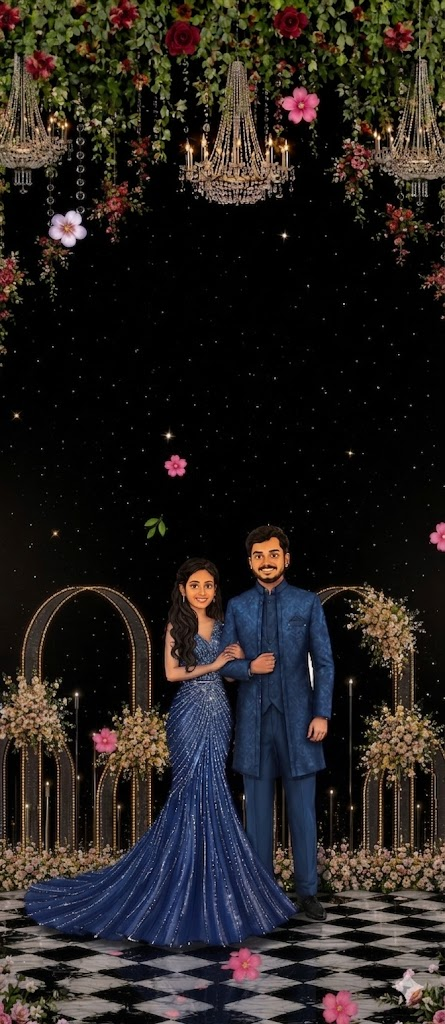
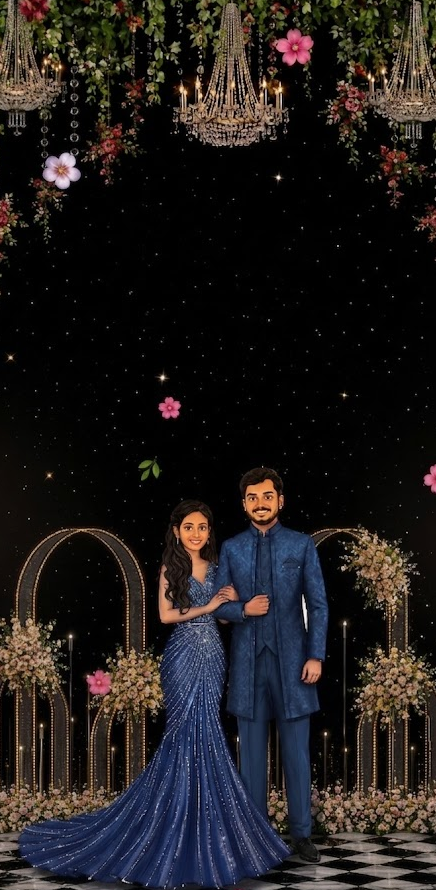
Add reception and sangeet images to assets

diff --git a/src/components/Sections.tsx b/src/components/Sections.tsx
@@ -12,15 +12,22 @@ export function Hero() {
         className="absolute inset-0 h-full w-full object-cover"
       />
       <div className="absolute inset-0 bg-[#FAF0E6]/10" />
-      <div className="relative z-10">
-        <p className="font-serif tracking-[0.3em] text-maroon/70">WE ARE GETTING MARRIED</p>
-        <h1 className="my-4 font-script text-4xl text-maroon sm:text-5xl sm:text-7xl md:text-8xl">
-          {wedding.groom}
-          <span className="mx-2 text-rose">&amp;</span>
-          {wedding.bride}
-        </h1>
-        <p className="font-serif text-2xl text-maroon/80">{wedding.dateLabel}</p>
-        <p className="mt-1 font-sans text-sm tracking-wide text-rose">{wedding.city}</p>
+      <div className="relative z-10 mx-auto max-w-md py-12">
+        <p className="font-serif text-lg italic tracking-wide text-rose">
+          ॥ {wedding.invocation} ॥
+        </p>
+
+        <p className="mx-auto mt-8 max-w-sm font-serif text-base leading-relaxed text-maroon/80">
+          {wedding.introLine}
+        </p>
+
+        <h1 className="mt-6 font-script text-6xl text-maroon sm:text-7xl">{wedding.groom}</h1>
+        <p className="mt-2 font-serif text-sm text-maroon/70">{wedding.groomParents}</p>
+
+        <p className="my-4 font-script text-3xl text-maroon/80">with</p>
+
+        <h1 className="font-script text-6xl text-maroon sm:text-7xl">{wedding.bride}</h1>
+        <p className="mt-2 font-serif text-sm text-maroon/70">{wedding.brideParents}</p>
       </div>
     </section>
   );
@@ -63,27 +70,104 @@ export function Events() {
 
       <div className="mx-auto flex max-w-[1230px] flex-wrap justify-center gap-6">
         {wedding.events
-          .filter((e) => "image" in e && e.image)
-          .map((e, i) => (
-            <Reveal key={e.name} delay={i * 0.08} className="w-full md:w-[calc(50%-0.75rem)]">
-              <div className="flex h-full items-center justify-center rounded-2xl bg-white/70 p-0 shadow-sm">
-                <picture className="w-full">
-                  {/* Desktop / tablet (≥480px) gets the main image. */}
-                  <source
-                    media="(min-width: 480px)"
-                    srcSet={(e as { image: string }).image}
-                  />
-                  {/* Phones (<480px) get imageMobile if provided, else the main image. */}
-                  <img
-                    src={(e as { imageMobile?: string; image: string }).imageMobile ?? (e as { image: string }).image}
-                    alt={e.name}
-                    loading="lazy"
-                    className="h-auto w-full rounded-2xl object-contain"
-                  />
-                </picture>
-              </div>
-            </Reveal>
-          ))}
+          .filter((e) => ("image" in e && e.image) || ("imageMobile" in e && e.imageMobile))
+          .map((e, i) => {
+            const ev = e as {
+              image?: string;
+              imageMobile?: string;
+              name: string;
+              tag?: string;
+              date?: string;
+              time?: string;
+              venue?: string;
+              overlayPos?: string;
+            };
+            // Events with only a mobile image are hidden on screens ≥480px.
+            const mobileOnly = !ev.image && !!ev.imageMobile;
+            // Shift the overlay toward the upper-right empty space when requested.
+            const overlayAlign =
+              ev.overlayPos === "top-right"
+                ? "items-end justify-start pt-[12%] text-right"
+                : "items-center justify-center text-center";
+            // Reception gets its own overlay positioning, tweak independently here.
+            const isReception = ev.name === "Reception";
+            const overlayClass = isReception
+              ? "items-center justify-center px-8 py-8 text-center"
+              : `px-8 py-8 pl-36 ${overlayAlign}`;
+            return (
+              <Reveal
+                key={e.name}
+                delay={i * 0.08}
+                className={`w-full md:w-[calc(50%-0.75rem)]${mobileOnly ? " min-[480px]:hidden" : ""}`}
+              >
+                <div className="relative flex h-full items-center justify-center overflow-hidden rounded-2xl bg-white/70 p-0 shadow-sm">
+                  <picture className="w-full">
+                    {/* Desktop / tablet (≥480px) gets the main image (if any). */}
+                    {ev.image && (
+                      <source media="(min-width: 480px)" srcSet={ev.image} />
+                    )}
+                    {/* Phones (<480px) get imageMobile if provided, else the main image. */}
+                    <img
+                      src={ev.imageMobile ?? ev.image}
+                      alt={e.name}
+                      loading="lazy"
+                      className="h-auto w-full rounded-2xl object-contain"
+                    />
+                  </picture>
+
+                  {/* Mobile text overlay — anchored to the top of the portrait image. */}
+                  <div className="absolute inset-x-0 top-0 flex flex-col items-center px-6 pt-8 text-center text-white min-[480px]:hidden">
+                    <h3 className="font-script text-4xl drop-shadow">{ev.name}</h3>
+                    {ev.tag && (
+                      <p className="mt-2 max-w-xs font-serif text-sm italic text-white/90 drop-shadow">
+                        {ev.tag}
+                      </p>
+                    )}
+                    <div className="mt-3 flex flex-wrap items-center justify-center gap-x-3 gap-y-1 font-serif text-sm drop-shadow">
+                      {ev.date && <span>{ev.date}</span>}
+                      {ev.time && <span>· {ev.time}</span>}
+                    </div>
+                    {ev.venue && (
+                      <p className="mt-1 font-serif text-sm text-white/90 drop-shadow">{ev.venue}</p>
+                    )}
+                  </div>
+
+                  {/* Web-only text overlay (mobile images already have text baked in). */}
+                  {ev.image && (
+                    <div className={`absolute inset-0 hidden flex-col bg-black/30 text-white min-[480px]:flex ${overlayClass}`}>
+                      <h3 className="font-script text-4xl drop-shadow sm:text-5xl">{ev.name}</h3>
+                      {ev.tag && (
+                        <p className="mt-3 max-w-xs font-serif text-base italic text-white/90 drop-shadow sm:text-lg">
+                          {ev.tag}
+                        </p>  
+                      )}
+                      <div className="my-5 text-xl text-gold drop-shadow">❀</div>
+                      <div className="space-y-4 font-serif">
+                        {ev.date && (
+                          <div>
+                            <p className="text-xs tracking-[0.3em] text-white/80">DATE</p>
+                            <p className="mt-1 text-xl drop-shadow sm:text-2xl">{ev.date}</p>
+                          </div>
+                        )}
+                        {ev.time && (
+                          <div>
+                            <p className="text-xs tracking-[0.3em] text-white/80">TIME</p>
+                            <p className="mt-1 text-xl drop-shadow sm:text-2xl">{ev.time}</p>
+                          </div>
+                        )}
+                        {ev.venue && (
+                          <div>
+                            <p className="text-xs tracking-[0.3em] text-white/80">VENUE</p>
+                            <p className="mt-1 text-lg drop-shadow sm:text-xl">{ev.venue}</p>
+                          </div>
+                        )}
+                      </div>
+                    </div>
+                  )}
+                </div>
+              </Reveal>
+            );
+          })}
       </div>
     </section>
   );
@@ -113,13 +197,13 @@ export function Families() {
       </Reveal>
 
       <Reveal className="mx-auto mt-5 max-w-xl rounded-2xl border border-gold/40 px-5 py-10">
-        <p className="font-serif text-xs tracking-[0.25em] text-sagedeep/70">
+        <p className="font-serif text-sm tracking-[0.25em] text-[#7E4343]/80 sm:text-base">
           {wedding.hosts.label.toUpperCase()}
         </p>
         <div className="my-3 text-gold">❀</div>
-        <div className="space-y-1.5">
+        <div className="space-y-2">
           {wedding.hosts.names.map((name) => (
-            <p key={name} className="font-serif text-lg text-maroon/90">
+            <p key={name} className="font-serif text-2xl text-[#5e2f2f] sm:text-3xl">
               {name}
             </p>
           ))}
@@ -138,7 +222,7 @@ export function Rsvp() {
       <Reveal>
         <h2 className="font-script text-4xl text-maroon sm:text-5xl">Will You Join Us?</h2>
         <Divider />
-        <p className="mx-auto mb-8 max-w-md font-serif text-lg text-maroon/80">
+        <p className="mx-auto mb-8 max-w-md font-serif text-2xl text-maroon/80">
           Your presence is the greatest gift. Kindly let us know if you can make it.
         </p>
         <a
@@ -160,9 +244,8 @@ export function Footer() {
       <div className="font-script text-4xl text-white sm:text-5xl">
         {wedding.monogram.left} &amp; {wedding.monogram.right}
       </div>
-      <p className="mt-4 font-serif text-lg text-white/70">{wedding.families}</p>
-      <p className="mt-2 font-sans text-xs tracking-wide text-white/70">
-        {wedding.dateLabel} · {wedding.city}
+      <p className="mt-4 font-sans text-sm tracking-wide text-white/70">
+        {wedding.dateLabel}
       </p>
     </footer>
   );

diff --git a/src/data/wedding.ts b/src/data/wedding.ts
@@ -5,21 +5,30 @@
 // ============================================================
 
 import haldiImg from "../assets/image copy.png";
-import mehendiImg from "../assets/event1.png";
-import sangeetImg from "../assets/image.png";
+import sangeetImg from "../assets/sangeet.png";
+import ReceptionImg from "../assets/reception.png";
 
 // Optional mobile-specific variants. Drop the files in /src/assets and import
 // them here, then reference via `imageMobile` on the matching event below.
 // If an event has no `imageMobile`, its desktop `image` is used everywhere.
-// import haldiImgMobile from "../assets/haldi-mobile.png";
-// import mehendiImgMobile from "../assets/mehendi-mobile.png";
+import haldiImgMobile from "../assets/haldi-mobile.jpg";
+import receptionImgMobile from "../assets/reception-mobile.jpeg";
 import sangeetImgMobile from "../assets/sangeet-mobile.png";
+import bhaatImgMobile from "../assets/bhaat-mobile.jpeg";
+import baratImgMobile from "../assets/Barat-mobile.jpeg";
 
 export const wedding = {
   // --- Couple ---
   groom: "Gaurav",
   bride: "Simran",
   monogram: { left: "G", right: "S" }, // shown in the envelope + footer
+
+  // --- Invitation intro (first page) ---
+  invocation: "Shree Ganeshaya Namah",
+  introLine:
+    "We cordially invite you to witness the beginning of our forever and celebrate the wedding ceremony of",
+  groomParents: "S/o Mr. Sanjay Deshmukh & Mrs. Seema Deshmukh",
+  brideParents: "D/o Mr. Dasharath Yadav & Mrs. Ujjwala Yadav",
 
   // --- Headline date ---
   date: "2026-07-09T19:00:00", // ISO — used for countdown
@@ -36,7 +45,8 @@ export const wedding = {
     {
       name: "Haldi",
       image: haldiImg,
-      // imageMobile: haldiImgMobile,
+      tag: "A joyful morning of haldi, blessings and laughter",
+      imageMobile: haldiImgMobile,
       date: "7 July 2026",
       time: "10:00 AM",
       venue: "Family Residence",
@@ -46,7 +56,7 @@ export const wedding = {
     },
     {
       name: "Mehendi",
-      image: mehendiImg,
+      tag: "An evening of intricate henna, music and mischief",
       date: "7 July 2026",
       time: "4:00 PM",
       venue: "The Garden Lawn",
@@ -57,6 +67,7 @@ export const wedding = {
     {
       name: "Sangeet",
       image: sangeetImg,
+      tag: "A night of song, dance and celebration",
       imageMobile: sangeetImgMobile,
       date: "8 July 2026",
       time: "7:00 PM",
@@ -66,16 +77,32 @@ export const wedding = {
       icon: "🎶",
     },
     {
-      name: "Wedding",
+      name: "Bhaat",
+      tag: "A heartfelt ceremony of family blessings and gifts",
+      imageMobile: bhaatImgMobile,
+      date: "8 July 2026",
+      time: "12:00 PM",
+      venue: "Family Residence",
+      address: "123 Sample Street, Jaipur",
+      mapUrl: "https://maps.google.com/?q=Jaipur",
+      icon: "🎁",
+    },
+    {
+      name: "Baraat",
+      tag: "A grand procession of dhol, dance and joy",
+      imageMobile: baratImgMobile,
       date: "9 July 2026",
-      time: "7:00 PM",
+      time: "6:00 PM",
       venue: "Royal Heritage Palace",
       address: "1 Heritage Marg, Jaipur",
       mapUrl: "https://maps.google.com/?q=Jaipur",
-      icon: "💍",
+      icon: "🐎",
     },
     {
       name: "Reception",
+      image: ReceptionImg,
+      tag: "An elegant evening of dinner, toasts and togetherness",
+      imageMobile: receptionImgMobile,
       date: "10 July 2026",
       time: "8:00 PM",
       venue: "Royal Heritage Palace",
@@ -108,11 +135,11 @@ export const wedding = {
   // --- "The Families" section ---
   hosts: {
     label: "Awaiting Your Gracious Presence",
-    names: ["Mr. Sanjay Deshmukh", "Mrs. Seema Deshmukh"],
+    names: ["Mr. Prem Shankarlal Agrawal", "Mrs. Kavita Prem Agrawal"],
   },
 
   // --- Footer ---
-  families: "With love from the Sharma & Verma families",
+  families: "With love from the Agrawal & Agrawal families",
 };
 
 export type WeddingEvent = (typeof wedding.events)[number];

diff --git a/src/components/ScratchSection.tsx b/src/components/ScratchSection.tsx
@@ -36,7 +36,7 @@ export function ScratchSection({ onReveal }: { onReveal: () => void }) {
               You&apos;re invited to celebrate our wedding!
             </p>
             <p className="mt-1 font-sans text-sm tracking-wide text-rose">
-              {wedding.dateLabel} · {wedding.city}
+              {wedding.dateLabel} 
             </p>
           </div>
         </ScratchCard>